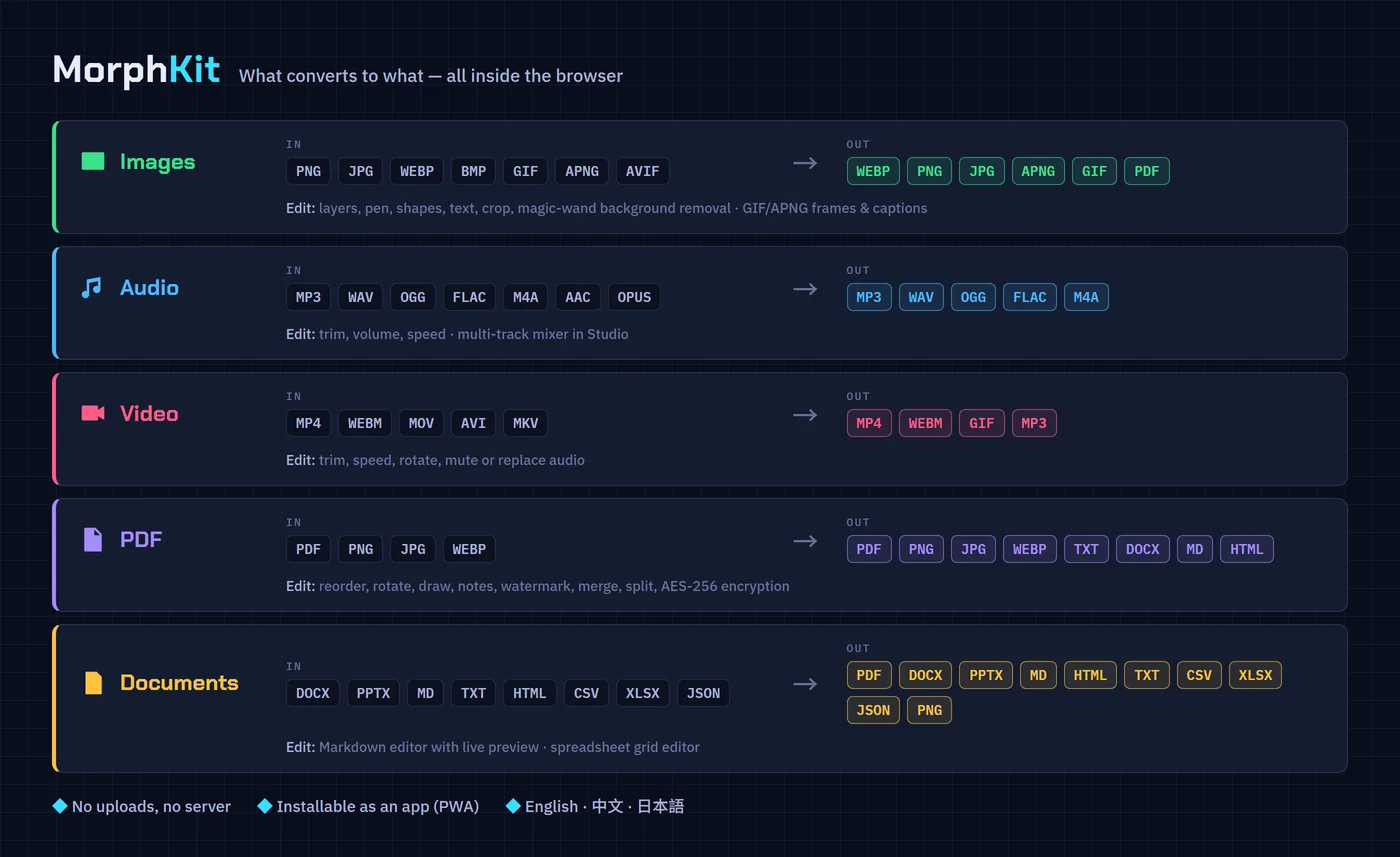
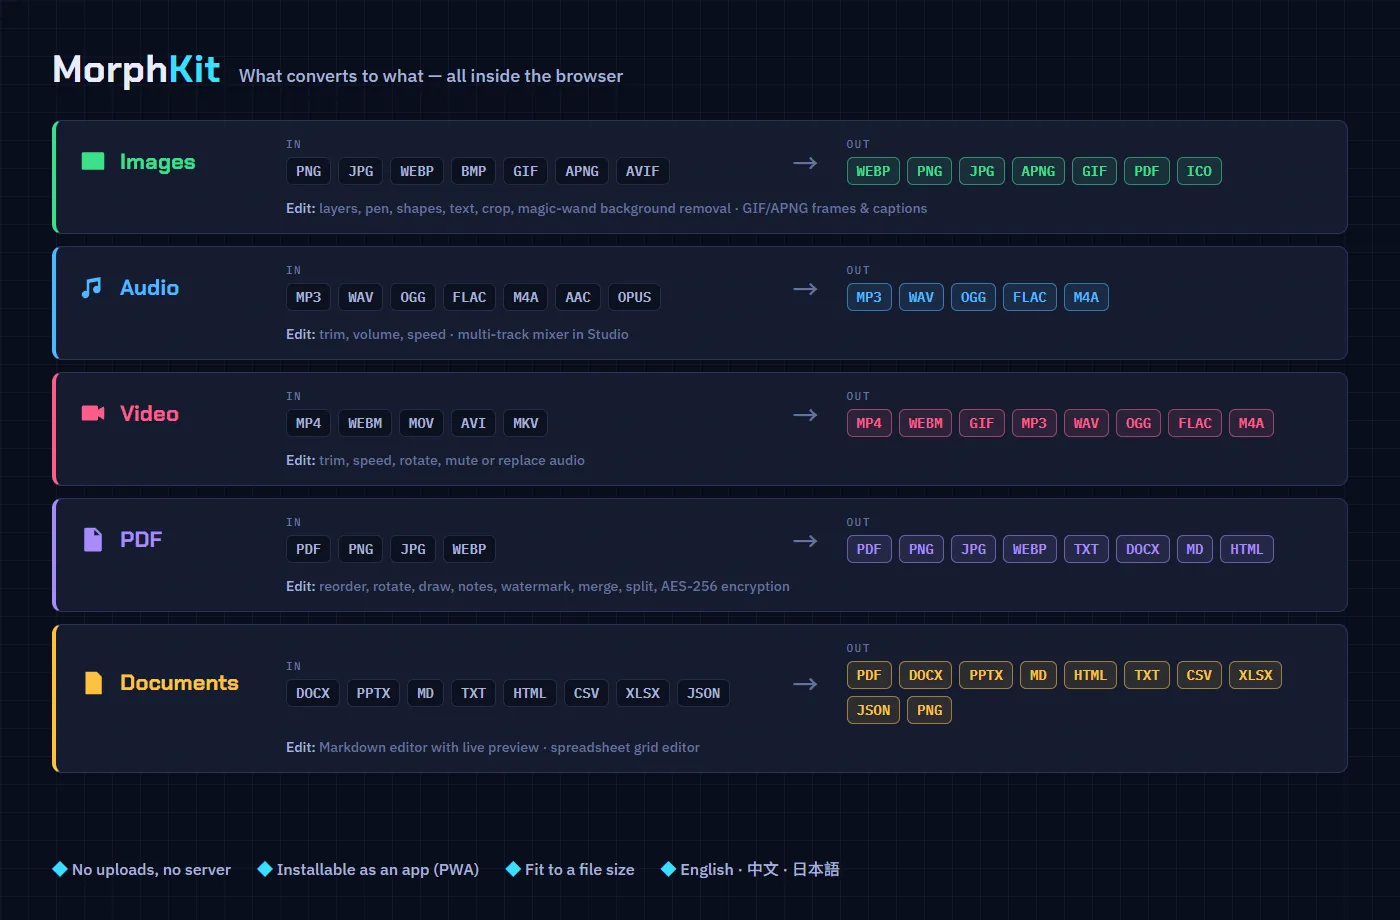
docs: keep the format overview picture's source in the repo, and check it
formats-en.webp / formats-zh.webp were drawn from an HTML page that lived
outside the repo, so nobody could update them. The page is now
docs/images/formats.html with the render command in its header, like the
cover. It can't import the TypeScript registry, so tests/formatsPicture
compares its OUT lists with lib/formats and fails when an output is added in
one place only (checked by removing ICO from the page: the test failed).

Both pictures are re-rendered with ICO and the video audio outputs, and a
"fit to a file size" line in the footer.

diff --git a/docs/images/formats.html b/docs/images/formats.html
@@ -1,0 +1,89 @@
+<!doctype html>
+<!--
+  "What converts to what" overview for the READMEs: formats-en.webp (#en) and formats-zh.webp (#zh).
+
+  Re-render from the repo root with Edge or Chrome (both paths absolute, see cover.html for why):
+    msedge --headless=new --hide-scrollbars --window-size=1400,920 --virtual-time-budget=8000 \
+      --user-data-dir="$(mktemp -d)" --screenshot="$PWD/docs/images/formats-en.webp" \
+      "file://$PWD/docs/images/formats.html#en"
+  and the same with formats-zh.webp and #zh. In Git Bash on Windows use $(pwd -W) and file:///.
+
+  The OUT lists must match the format registry in src/lib/formats.ts (IMAGE_OUTPUTS, AUDIO_OUTPUTS,
+  VIDEO_OUTPUTS, PDF_OUTPUTS, DOC_OUTPUTS); tests/formatsPicture.test.ts fails when they drift.
+  The IN lists are a short pick, like the ones in src/components/FormatMatrix.tsx.
+-->
+<html><head><meta charset="utf-8">
+<link href="https://fonts.googleapis.com/css2?family=Chakra+Petch:wght@600;700&family=IBM+Plex+Mono:wght@500;600&family=IBM+Plex+Sans:wght@500&family=Noto+Sans+TC:wght@500;700&display=block" rel="stylesheet">
+<style>
+  :root { --bg:#0a0e1c; --raised:#161d33; --line:rgba(145,175,255,.17); --ink:#e8edff; --dim:#a6b2d8; --faint:#67729b; }
+  * { box-sizing: border-box; margin: 0; }
+  html, body { width: 1400px; height: 920px; overflow: hidden; }
+  body { display: flex; flex-direction: column; background: var(--bg); color: var(--ink); font-family: 'IBM Plex Sans', 'Noto Sans TC', sans-serif; padding: 44px 52px 40px;
+    background-image: linear-gradient(rgba(145,175,255,.05) 1px, transparent 1px), linear-gradient(90deg, rgba(145,175,255,.05) 1px, transparent 1px); background-size: 28px 28px; }
+  header { display: flex; align-items: baseline; gap: 18px; margin-bottom: 26px; }
+  h1 { font-family: 'Chakra Petch', 'Noto Sans TC', sans-serif; font-size: 38px; letter-spacing: .5px; }
+  h1 b { color: #38dfff; }
+  header p { color: var(--dim); font-size: 18px; }
+  .row { display: grid; grid-template-columns: 190px 1fr 46px 1fr; align-items: center; gap: 18px; padding: 16px 22px; margin-bottom: 12px;
+    background: rgba(22,29,51,.92); border: 1px solid var(--line); border-left: 4px solid var(--c); border-radius: 10px; }
+  .kind { display: flex; align-items: center; gap: 12px; font-family: 'Chakra Petch', 'Noto Sans TC', sans-serif; font-size: 22px; font-weight: 700; color: var(--c); }
+  .kind svg { width: 30px; height: 30px; flex: none; }
+  .chips { display: flex; flex-wrap: wrap; gap: 7px; }
+  .chip { font-family: 'IBM Plex Mono', monospace; font-weight: 600; font-size: 14px; padding: 4px 9px; border-radius: 6px; border: 1px solid var(--line); color: var(--dim); background: rgba(4,6,15,.5); }
+  .out .chip { color: var(--c); border-color: color-mix(in srgb, var(--c) 55%, transparent); background: color-mix(in srgb, var(--c) 10%, transparent); }
+  .arrow { color: var(--faint); font-size: 26px; text-align: center; }
+  .lbl { font-family: 'IBM Plex Mono', monospace; font-size: 11px; letter-spacing: 1.5px; color: var(--faint); text-transform: uppercase; margin-bottom: 6px; }
+  .edit { grid-column: 2 / 5; color: var(--faint); font-size: 14px; margin-top: -4px; }
+  .edit b { color: var(--dim); font-weight: 500; }
+  footer { display: flex; gap: 26px; margin-top: auto; color: var(--dim); font-size: 16px; }
+  footer span::before { content: '◆ '; color: #38dfff; }
+</style></head>
+<body>
+<header><h1>Morph<b>Kit</b></h1><p id="sub"></p></header>
+<main id="rows"></main>
+<footer id="foot"></footer>
+<script>
+const L = location.hash === '#zh' ? 'zh' : 'en';
+const T = {
+  en: { sub: 'What converts to what — all inside the browser', in: 'in', out: 'out', edit: 'Edit:',
+        kinds: ['Images', 'Audio', 'Video', 'PDF', 'Documents'],
+        edits: ['layers, pen, shapes, text, crop, magic-wand background removal · GIF/APNG frames & captions',
+                'trim, volume, speed · multi-track mixer in Studio', 'trim, speed, rotate, mute or replace audio',
+                'reorder, rotate, draw, notes, watermark, merge, split, AES-256 encryption',
+                'Markdown editor with live preview · spreadsheet grid editor'],
+        foot: ['No uploads, no server', 'Installable as an app (PWA)', 'Fit to a file size', 'English · 中文 · 日本語'] },
+  zh: { sub: '能轉哪些格式 — 全部在瀏覽器裡完成', in: '輸入', out: '輸出', edit: '可編輯：',
+        kinds: ['圖片', '音訊', '影片', 'PDF', '文件'],
+        edits: ['圖層、畫筆、形狀、文字、裁切、魔術棒去背 · GIF/APNG 逐格編輯與字幕',
+                '剪輯、音量、變速 · Studio 多軌混音', '剪輯、變速、旋轉、靜音或替換音軌',
+                '排序、旋轉、繪圖、註解、浮水印、合併、分割、AES-256 加密',
+                'Markdown 編輯器即時預覽 · 試算表表格編輯器'],
+        foot: ['不上傳、沒有伺服器', '可安裝成 App（PWA）', '可壓到指定大小', 'English · 中文 · 日本語'] },
+}[L];
+const ICON = {
+  image: 'M4 5h16a1 1 0 0 1 1 1v12a1 1 0 0 1-1 1H4a1 1 0 0 1-1-1V6a1 1 0 0 1 1-1zm2 10 3.5-4.5 2.5 3 2-2.5L18 15H6zm2.5-7a1.5 1.5 0 1 1 0 3 1.5 1.5 0 0 1 0-3z',
+  audio: 'M9 18a3 3 0 1 1-2-2.83V6l11-2v10a3 3 0 1 1-2-2.83V7.4l-7 1.27V18z',
+  video: 'M4 6h11a1 1 0 0 1 1 1v2.5l4-2.5a.6.6 0 0 1 1 .5v9a.6.6 0 0 1-1 .5l-4-2.5V17a1 1 0 0 1-1 1H4a1 1 0 0 1-1-1V7a1 1 0 0 1 1-1z',
+  pdf: 'M6 3h8l5 5v13a1 1 0 0 1-1 1H6a1 1 0 0 1-1-1V4a1 1 0 0 1 1-1zm7 1.5V9h4.5L13 4.5zM8 12h8v1.6H8V12zm0 3.2h8v1.6H8v-1.6zm0 3.2h5V20H8v-1.6z',
+  doc: 'M6 3h9l4 4v14H6zM8 12h8v1.6H8zm0 3.2h8v1.6H8zm0 3.2h5V20H8z',
+};
+// [kind, colour, IN (a short pick), OUT (must match src/lib/formats.ts)]
+const ROWS = [
+  ['image', '#3ce08c', ['PNG', 'JPG', 'WEBP', 'BMP', 'GIF', 'APNG', 'AVIF'], ['WEBP', 'PNG', 'JPG', 'APNG', 'GIF', 'PDF', 'ICO']],
+  ['audio', '#4db8ff', ['MP3', 'WAV', 'OGG', 'FLAC', 'M4A', 'AAC', 'OPUS'], ['MP3', 'WAV', 'OGG', 'FLAC', 'M4A']],
+  ['video', '#ff5c8a', ['MP4', 'WEBM', 'MOV', 'AVI', 'MKV'], ['MP4', 'WEBM', 'GIF', 'MP3', 'WAV', 'OGG', 'FLAC', 'M4A']],
+  ['pdf', '#a78bfa', ['PDF', 'PNG', 'JPG', 'WEBP'], ['PDF', 'PNG', 'JPG', 'WEBP', 'TXT', 'DOCX', 'MD', 'HTML']],
+  ['doc', '#ffc23e', ['DOCX', 'PPTX', 'MD', 'TXT', 'HTML', 'CSV', 'XLSX', 'JSON'], ['PDF', 'DOCX', 'PPTX', 'MD', 'HTML', 'TXT', 'CSV', 'XLSX', 'JSON', 'PNG']],
+];
+document.getElementById('sub').textContent = T.sub;
+document.getElementById('rows').innerHTML = ROWS.map(([k, c, ins, outs], i) => `
+  <section class="row" style="--c:${c}">
+    <div class="kind"><svg viewBox="0 0 24 24"><path d="${ICON[k]}" fill="currentColor"/></svg>${T.kinds[i]}</div>
+    <div><p class="lbl">${T.in}</p><div class="chips">${ins.map((x) => `<span class="chip">${x}</span>`).join('')}</div></div>
+    <div class="arrow">→</div>
+    <div class="out"><p class="lbl">${T.out}</p><div class="chips">${outs.map((x) => `<span class="chip">${x}</span>`).join('')}</div></div>
+    <p class="edit"><b>${T.edit}</b> ${T.edits[i]}</p>
+  </section>`).join('');
+document.getElementById('foot').innerHTML = T.foot.map((x) => `<span>${x}</span>`).join('');
+</script>
+</body></html>

diff --git a/tests/formatsPicture.test.ts b/tests/formatsPicture.test.ts
@@ -1,0 +1,35 @@
+import { readFileSync } from 'node:fs';
+import { join } from 'node:path';
+import { describe, expect, it } from 'vitest';
+import {
+  AUDIO_OUTPUTS, DOC_OUTPUTS, IMAGE_OUTPUTS, PDF_OUTPUTS, VIDEO_OUTPUTS, formatLabel,
+} from '../src/lib/formats';
+
+/**
+ * The README's "what converts to what" picture is drawn from docs/images/formats.html, which can't
+ * import TypeScript, so its OUT lists are written out by hand. This keeps them honest: add an output
+ * to lib/formats.ts and this fails until the picture source (and then the picture) is updated.
+ */
+// npm test runs from the repo root (jsdom gives import.meta.url an http: scheme, so no URL tricks)
+const html = readFileSync(join(process.cwd(), 'docs/images/formats.html'), 'utf8');
+const rows = new Map(
+  [...html.matchAll(/\['(\w+)', '#[0-9a-f]{6}', \[[^\]]*\], \[([^\]]*)\]\]/g)].map((m) => [
+    m[1],
+    m[2].split(',').map((s) => s.trim().replace(/'/g, '')).filter(Boolean),
+  ])
+);
+const labels = (list: readonly string[]) => [...new Set(list.map(formatLabel))].sort();
+
+describe('formats overview picture', () => {
+  it('has a row for every kind', () => {
+    expect([...rows.keys()]).toEqual(['image', 'audio', 'video', 'pdf', 'doc']);
+  });
+
+  it('shows exactly the outputs the app offers', () => {
+    expect([...rows.get('image')!].sort()).toEqual(labels(IMAGE_OUTPUTS));
+    expect([...rows.get('audio')!].sort()).toEqual(labels(AUDIO_OUTPUTS));
+    expect([...rows.get('video')!].sort()).toEqual(labels(VIDEO_OUTPUTS));
+    expect([...rows.get('pdf')!].sort()).toEqual(labels(PDF_OUTPUTS));
+    expect([...rows.get('doc')!].sort()).toEqual(labels(Object.values(DOC_OUTPUTS).flat()));
+  });
+});
